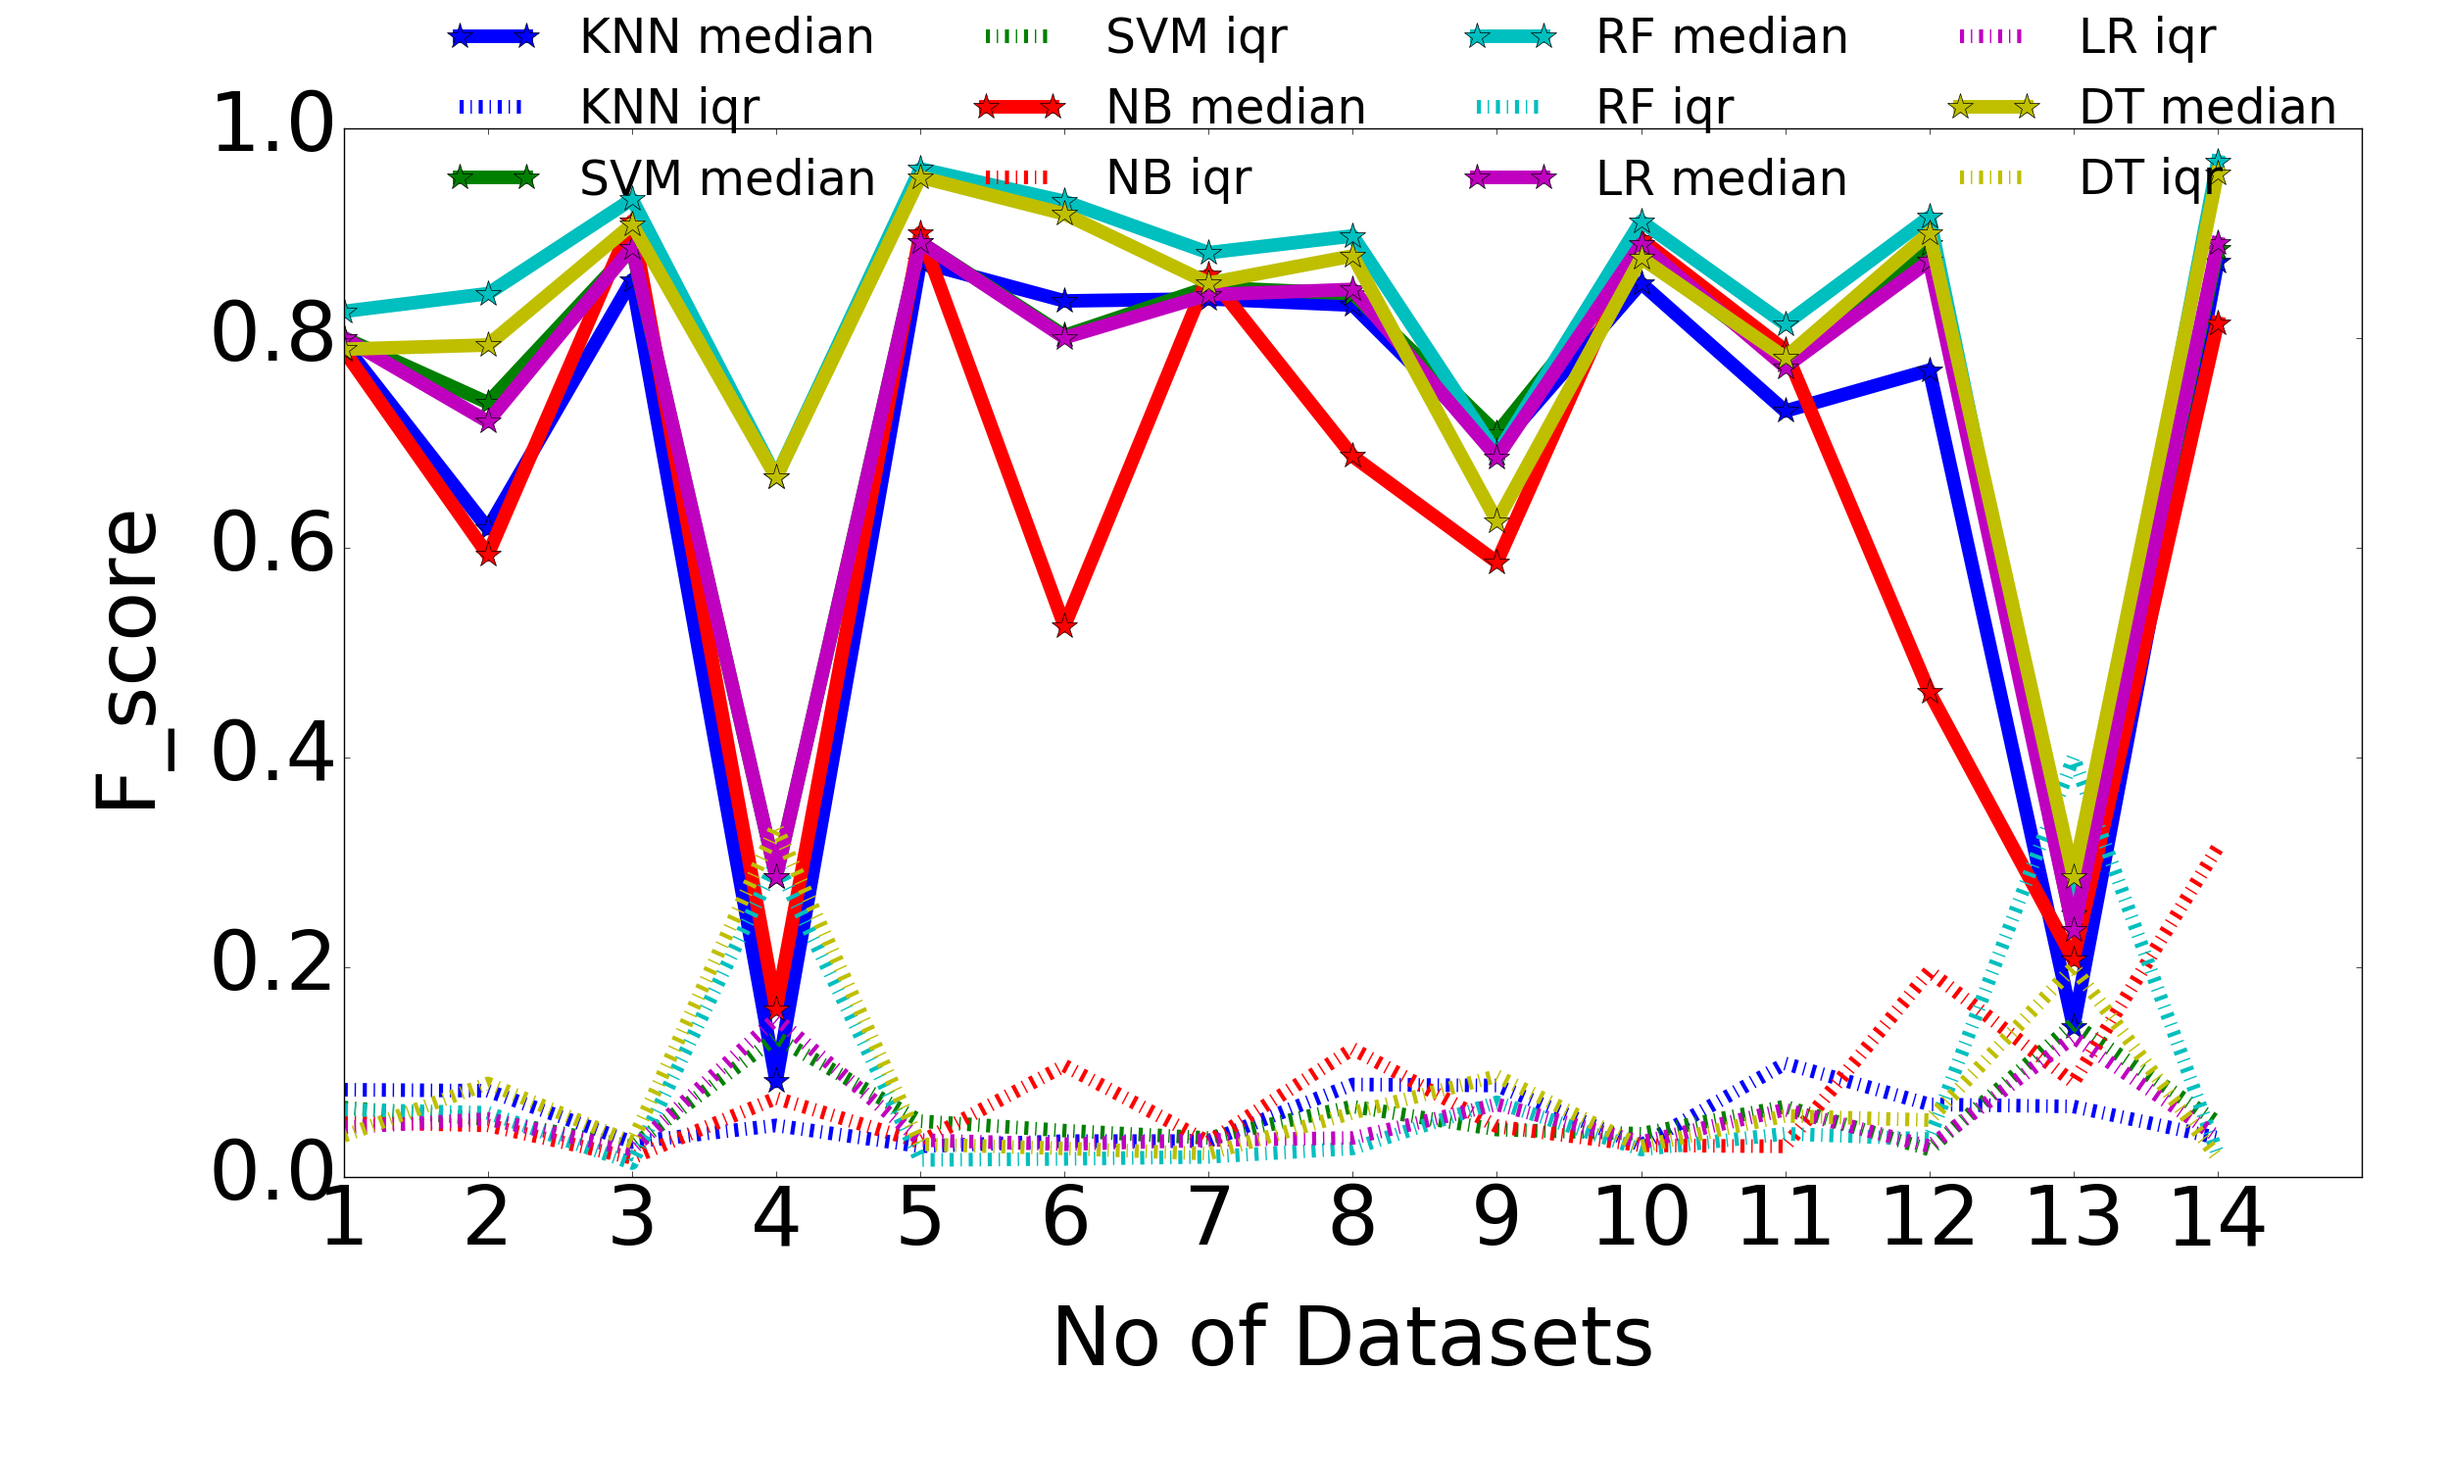
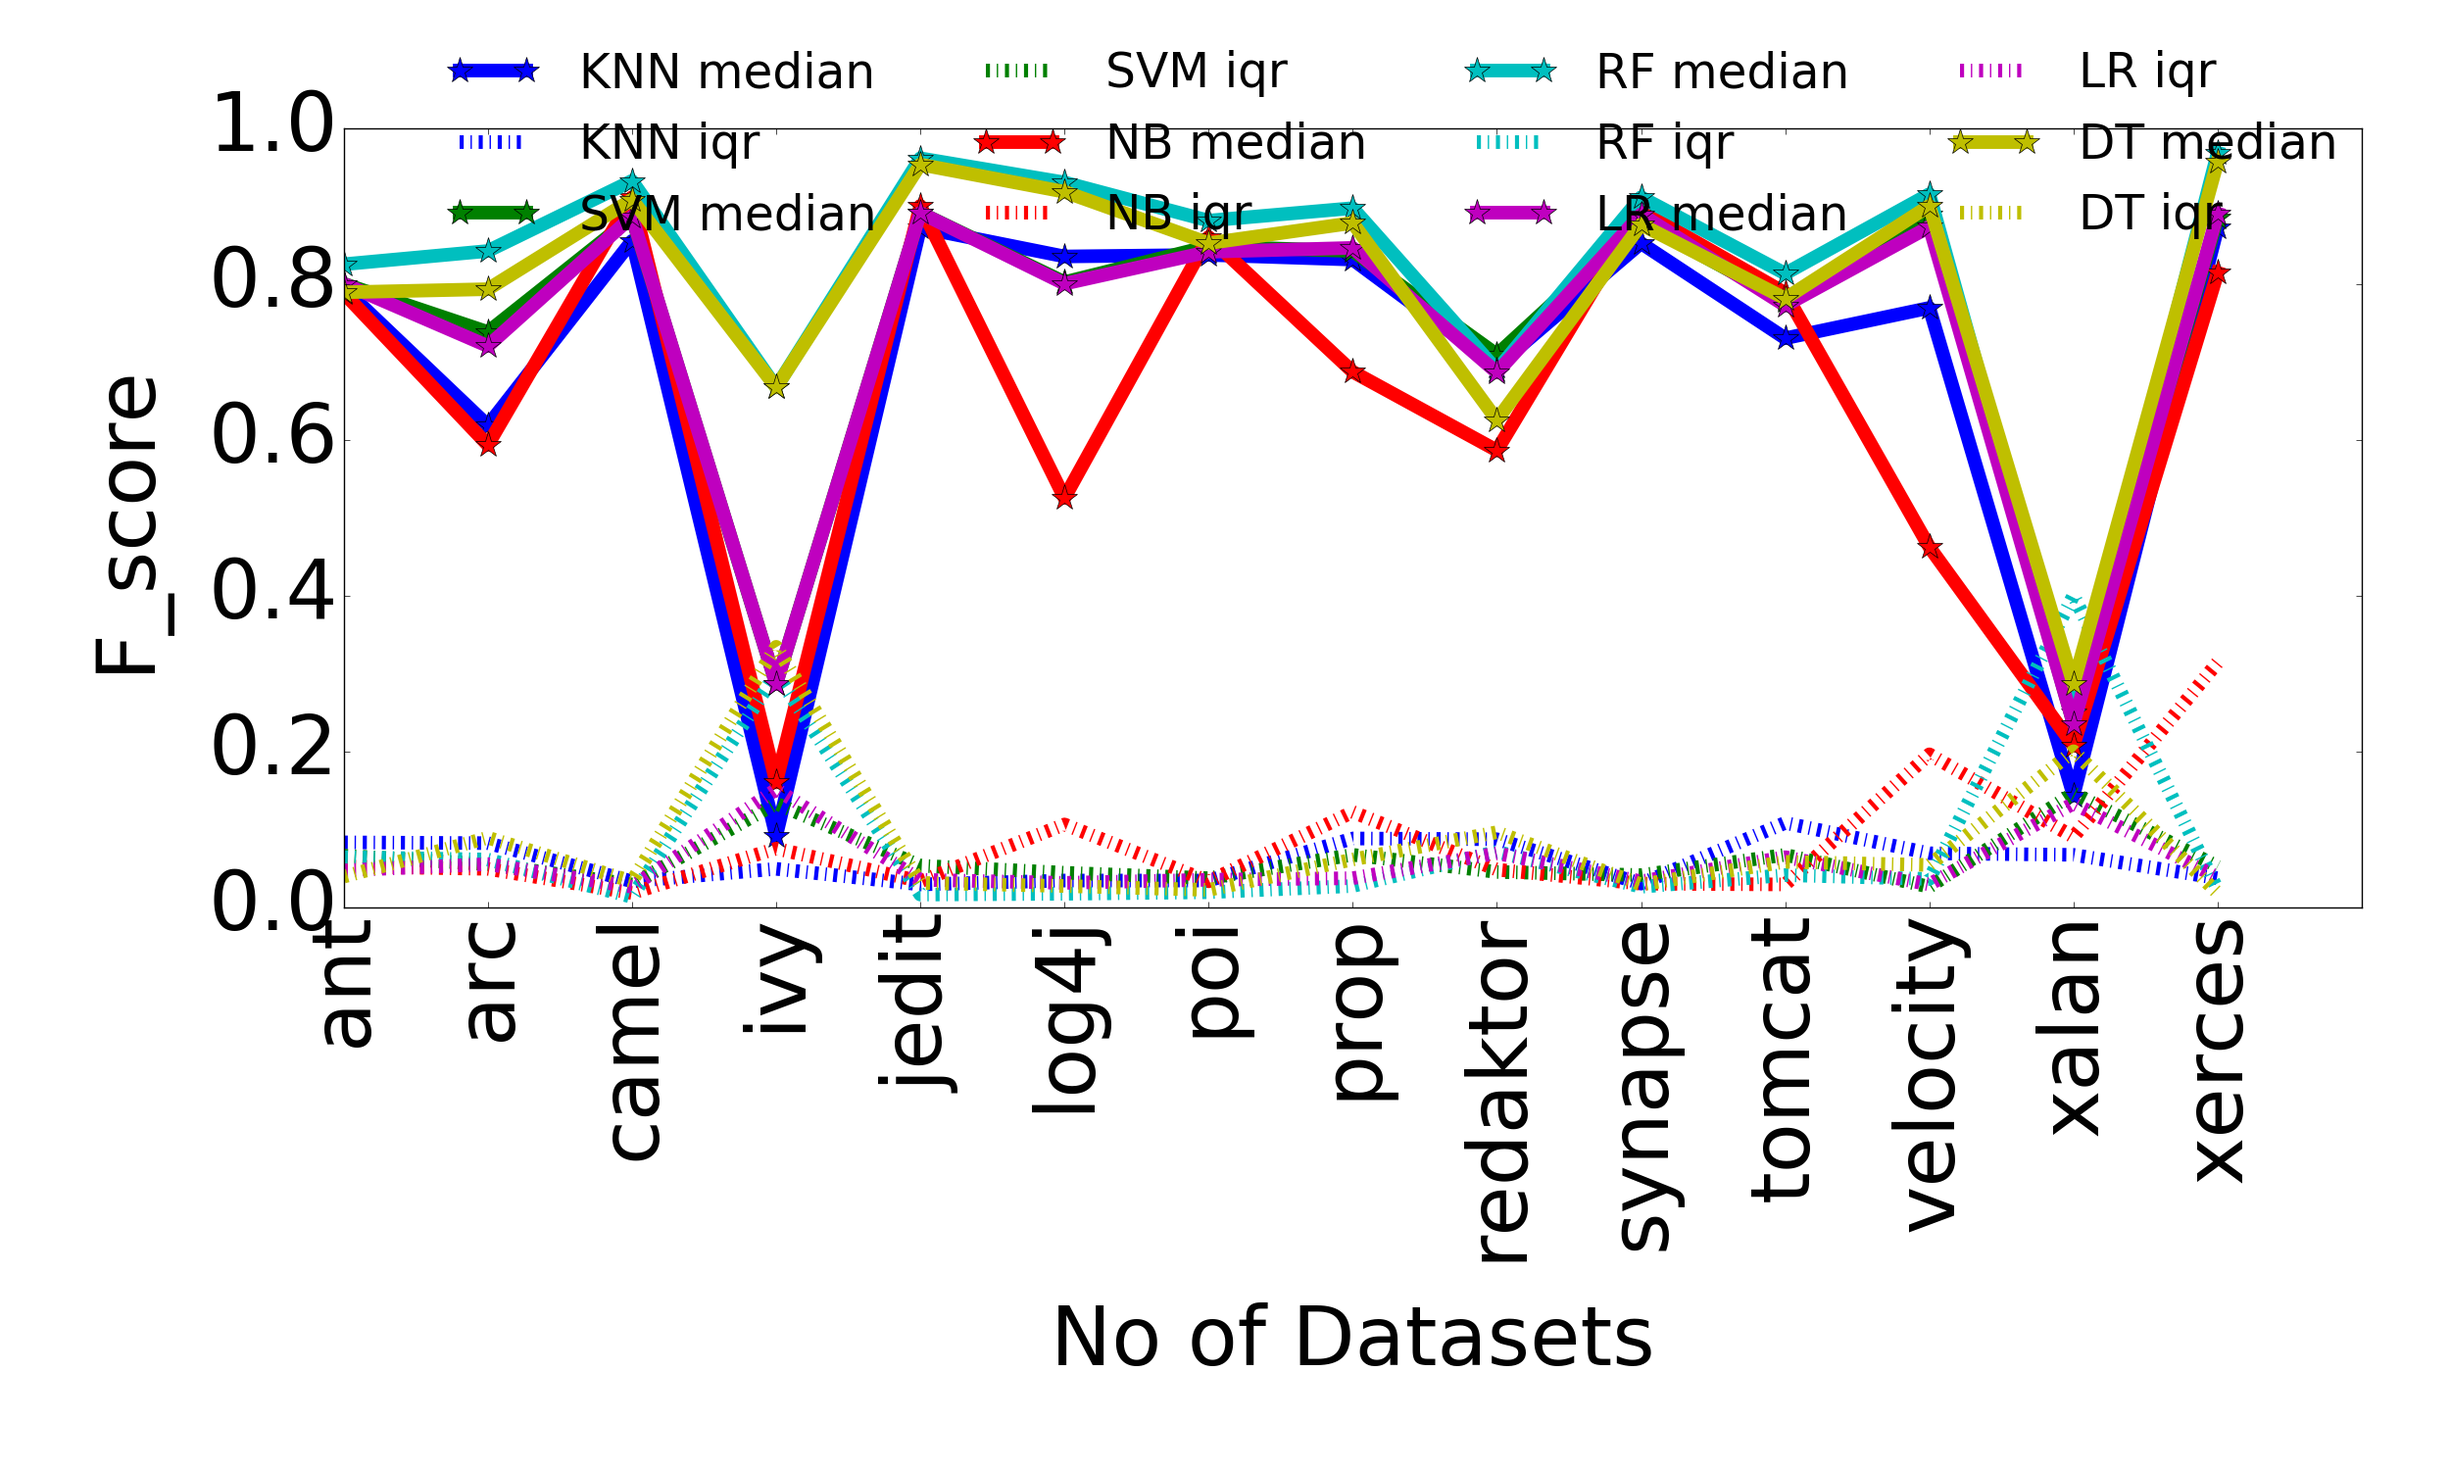
save

diff --git a/project/draw.py b/project/draw.py
@@ -15,7 +15,7 @@ if __name__ == '__main__':
     current_dic1 = {}
     para_dict1 = {}
     time1 = {}
-    path = '/Users/amrit/GITHUB/fss16591/project/code/dump/without/'
+    path = '/Users/amrit/GITHUB/fss16591/project/fault_prediction/dump/smote/'
     for root, dirs, files in os.walk(path, topdown=False):
         for name in files:
             a = os.path.join(root, name)
@@ -56,8 +56,8 @@ if __name__ == '__main__':
             #plt.ytext(0.04, 0.5, va='center', rotation='vertical', fontsize=11)
             #plt.text(0.04, 0.5,"Rn (Raw Score)", labelpad=100)
         plt.ylim(0.0, 1.0)
-        plt.xticks(X, range(1,len(fileB)+1))
+        plt.xticks(X, fileB,rotation=90)
         plt.ylabel(j, labelpad=30)
         plt.xlabel("No of Datasets", labelpad=30)
         plt.legend(bbox_to_anchor=(1.00, 1.13), loc=1, ncol=4, borderaxespad=0.1)
-        plt.savefig(j+"_nosmote.png")
+        plt.savefig(j+"_smote.png")
